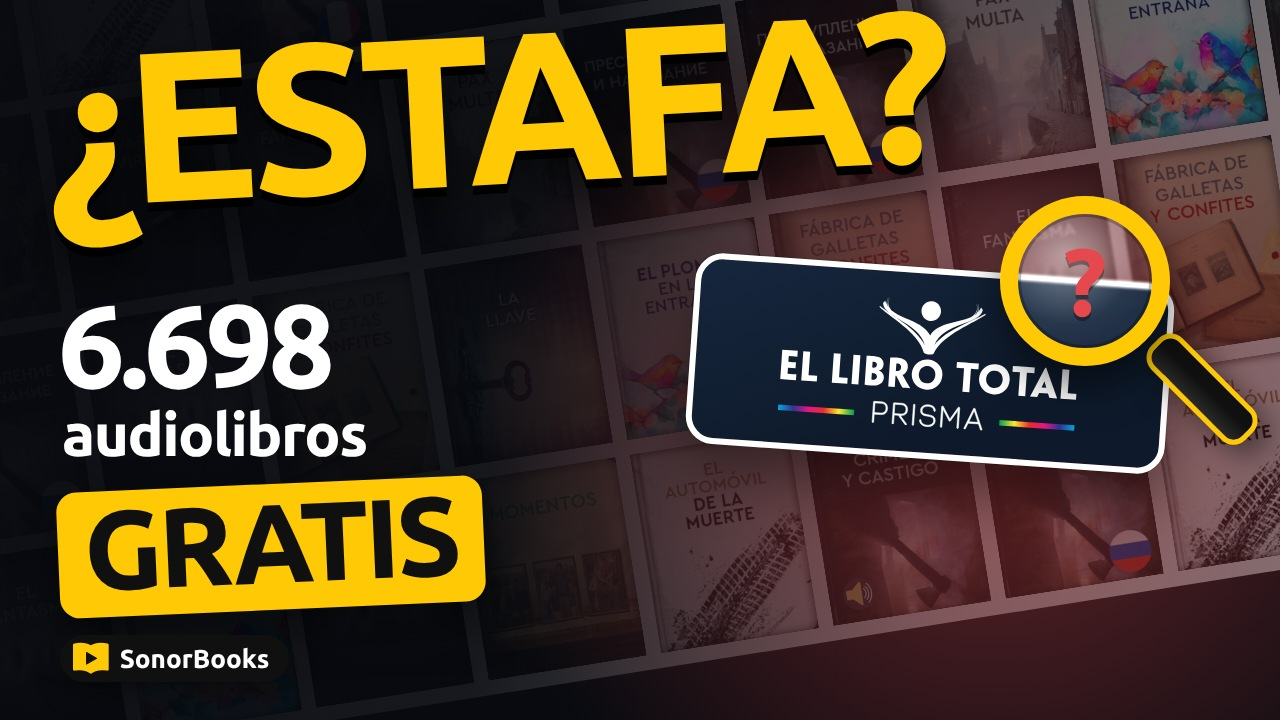
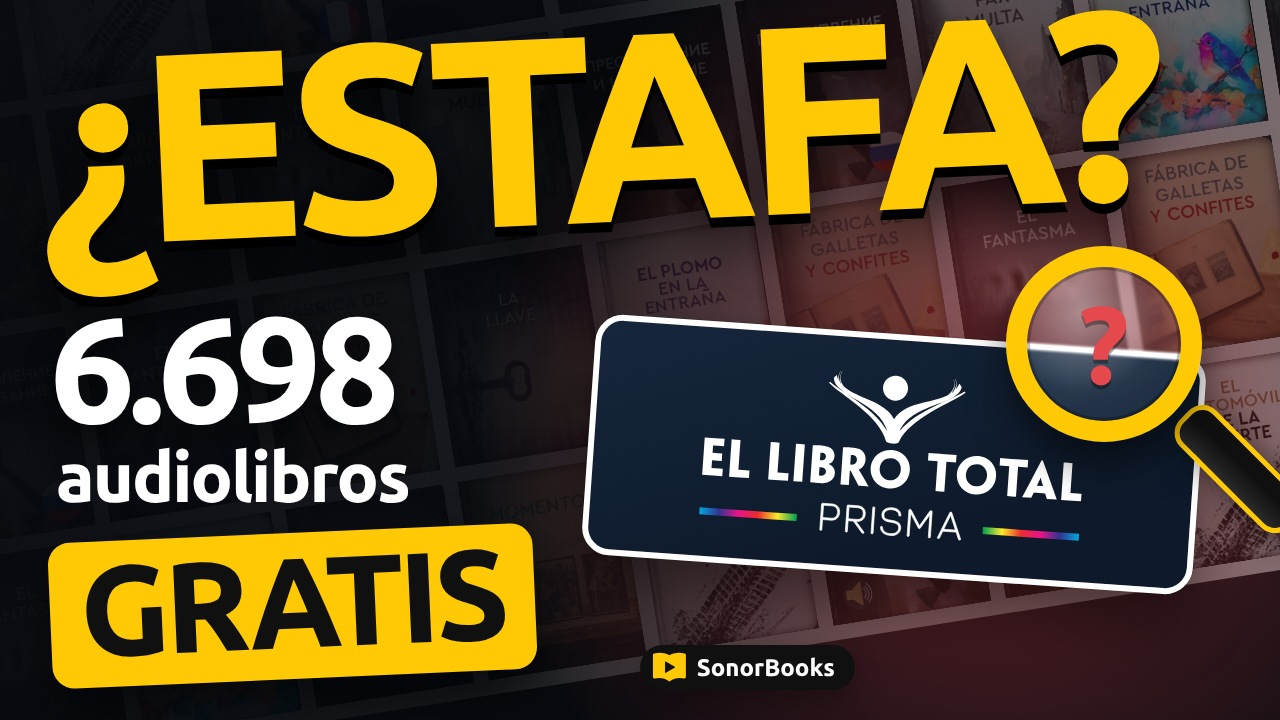
Miniaturas B y C: composición que ocupa todo el lienzo con menos piezas y más grandes
- B: «¿ESTAFA?» a todo el ancho, promesa más grande y logo de El Libro Total con lupa ocupando la mitad inferior.
- C: columna izquierda centrada (título, portada y precio tachado) y derecha con logo, portada y «0 €» más grandes.

Claude-Session: https://claude.ai/code/session_014SpXqk4RJtiCvMBPcT3Vps

diff --git a/video/src/scenes/elt2/CoverTest.tsx b/video/src/scenes/elt2/CoverTest.tsx
@@ -38,20 +38,20 @@ const Estafa: React.FC = () => (
     </div>
     <div style={{ position: 'absolute', inset: 0, background: 'linear-gradient(100deg, rgba(8,10,15,0.97) 0%, rgba(8,10,15,0.9) 42%, rgba(8,10,15,0.45) 75%, rgba(8,10,15,0.3) 100%)' }} />
     <div style={{ position: 'absolute', inset: 0, background: 'radial-gradient(circle at 78% 58%, rgba(229,72,77,0.42), rgba(229,72,77,0) 48%)' }} />
-    {/* Pregunta */}
-    <div style={{ position: 'absolute', left: 44, top: 22, transform: 'rotate(-3deg)', transformOrigin: 'left center' }}>
-      <div style={{ fontWeight: 700, fontSize: 214, letterSpacing: -8, lineHeight: 1, color: color.yellow, textShadow: '0 9px 0 #000, 0 22px 50px rgba(0,0,0,0.7)', whiteSpace: 'nowrap' }}>¿ESTAFA?</div>
+    {/* Pregunta: ocupa todo el ancho */}
+    <div style={{ position: 'absolute', left: 36, top: 14, transform: 'rotate(-2.5deg)', transformOrigin: 'left center' }}>
+      <div style={{ fontWeight: 700, fontSize: 268, letterSpacing: -11, lineHeight: 1, color: color.yellow, textShadow: '0 10px 0 #000, 0 24px 56px rgba(0,0,0,0.75)', whiteSpace: 'nowrap' }}>¿ESTAFA?</div>
     </div>
     {/* Promesa */}
-    <div style={{ position: 'absolute', left: 58, top: 288 }}>
-      <div style={{ fontWeight: 700, fontSize: 118, letterSpacing: -5, lineHeight: 0.95, color: '#fff' }}>6.698</div>
-      <div style={{ fontWeight: 700, fontSize: 60, letterSpacing: -1.5, lineHeight: 1, color: '#fff', marginTop: 4, marginLeft: 4 }}>audiolibros</div>
-      <div style={{ display: 'inline-block', marginTop: 20, background: color.yellow, color: color.ink, borderRadius: 20, padding: '2px 26px 12px', fontWeight: 700, fontSize: 112, letterSpacing: -4, lineHeight: 1, transform: 'rotate(-2.5deg)', boxShadow: '0 20px 44px rgba(0,0,0,0.5)' }}>GRATIS</div>
+    <div style={{ position: 'absolute', left: 50, top: 300 }}>
+      <div style={{ fontWeight: 700, fontSize: 150, letterSpacing: -7, lineHeight: 0.9, color: '#fff', textShadow: '0 12px 30px rgba(0,0,0,0.6)' }}>6.698</div>
+      <div style={{ fontWeight: 700, fontSize: 70, letterSpacing: -2, lineHeight: 1, color: '#fff', marginTop: 6, marginLeft: 6 }}>audiolibros</div>
+      <div style={{ display: 'inline-block', marginTop: 22, background: color.yellow, color: color.ink, borderRadius: 22, padding: '4px 30px 14px', fontWeight: 700, fontSize: 128, letterSpacing: -5, lineHeight: 1, transform: 'rotate(-2.5deg)', boxShadow: '0 22px 48px rgba(0,0,0,0.55)' }}>GRATIS</div>
     </div>
     {/* Logo de El Libro Total bajo la lupa */}
-    <div style={{ position: 'absolute', left: 690, top: 268 }}><EltPlate w={480} rotate={4} /></div>
-    <div style={{ position: 'absolute', left: 1000, top: 196 }}><Lens size={170} /></div>
-    <div style={{ position: 'absolute', left: 60, bottom: 38 }}><Brand /></div>
+    <div style={{ position: 'absolute', left: 588, top: 334 }}><EltPlate w={612} rotate={4} /></div>
+    <div style={{ position: 'absolute', left: 1006, top: 246 }}><Lens size={196} /></div>
+    <div style={{ position: 'absolute', left: 640, bottom: 30 }}><Brand size={24} /></div>
   </div>
 );
 
@@ -64,27 +64,27 @@ const Cyc: React.FC<{ w: number; rotate: number; dim?: boolean }> = ({ w, rotate
 const Precio: React.FC = () => (
   <div style={{ position: 'absolute', inset: 0, fontFamily: font.sans, overflow: 'hidden', background: `radial-gradient(ellipse at 72% 45%, #FFE066 0%, ${color.yellow} 50%, #F2B800 100%)` }}>
     <div style={{ position: 'absolute', inset: 0, backgroundImage: 'radial-gradient(rgba(16,16,16,0.10) 2px, transparent 2.4px)', backgroundSize: '28px 28px', opacity: 0.6 }} />
-    {/* Mitad izquierda: lo que cuesta en otra tienda */}
-    <div style={{ position: 'absolute', inset: 0, background: '#131313', clipPath: 'polygon(0 0, 600px 0, 520px 720px, 0 720px)' }} />
-    <div style={{ position: 'absolute', left: 52, top: 34, fontWeight: 700, fontSize: 66, letterSpacing: -2, color: '#fff', lineHeight: 1 }}>MISMO LIBRO</div>
-    <div style={{ position: 'absolute', left: 92, top: 150 }}><Cyc w={216} rotate={-5} dim /></div>
-    <div style={{ position: 'absolute', left: 50, top: 470 }}>
-      <div style={{ position: 'relative', display: 'inline-block', fontWeight: 700, fontSize: 118, letterSpacing: -5, lineHeight: 1, color: '#d9d9d9' }}>
-        18,99 €
-        <div style={{ position: 'absolute', left: -12, right: -14, top: '48%', height: 14, borderRadius: 7, background: color.red, transform: 'rotate(-9deg)', boxShadow: '0 4px 10px rgba(0,0,0,0.45)' }} />
+    {/* Mitad izquierda: lo que cuesta en otra tienda (columna centrada) */}
+    <div style={{ position: 'absolute', inset: 0, background: '#131313', clipPath: 'polygon(0 0, 610px 0, 540px 720px, 0 720px)' }} />
+    <div style={{ position: 'absolute', left: 0, top: 0, width: 560, height: 720, display: 'flex', flexDirection: 'column', alignItems: 'center' }}>
+      <div style={{ marginTop: 30, fontWeight: 700, fontSize: 70, letterSpacing: -2, color: '#fff', lineHeight: 1 }}>MISMO LIBRO</div>
+      <div style={{ marginTop: 34 }}><Cyc w={232} rotate={-5} dim /></div>
+      <div style={{ position: 'relative', marginTop: 26, fontWeight: 700, fontSize: 124, letterSpacing: -5, lineHeight: 1, color: '#d9d9d9', whiteSpace: 'nowrap' }}>
+        18,99{'\u202F'}€
+        <div style={{ position: 'absolute', left: -14, right: -14, top: '48%', height: 15, borderRadius: 8, background: color.red, transform: 'rotate(-8deg)', boxShadow: '0 4px 10px rgba(0,0,0,0.45)' }} />
       </div>
-      <div style={{ fontSize: 30, fontWeight: 500, color: 'rgba(255,255,255,0.6)', marginTop: 8, marginLeft: 6 }}>en Audible</div>
+      <div style={{ fontSize: 30, fontWeight: 500, color: 'rgba(255,255,255,0.62)', marginTop: 6 }}>en Audible</div>
     </div>
     {/* Flecha en la costura */}
-    <div style={{ position: 'absolute', left: 494, top: 300, width: 116, height: 116, borderRadius: '50%', background: '#fff', display: 'flex', alignItems: 'center', justifyContent: 'center', boxShadow: '0 18px 40px rgba(0,0,0,0.4)', border: `6px solid ${color.ink}` }}>
+    <div style={{ position: 'absolute', left: 512, top: 302, width: 116, height: 116, borderRadius: '50%', background: '#fff', display: 'flex', alignItems: 'center', justifyContent: 'center', boxShadow: '0 18px 40px rgba(0,0,0,0.4)', border: `6px solid ${color.ink}` }}>
       <svg width="60" height="60" viewBox="0 0 24 24"><path d="M4 12h14m-6-7 7 7-7 7" stroke={color.ink} strokeWidth="3.4" fill="none" strokeLinecap="round" strokeLinejoin="round" /></svg>
     </div>
     {/* Mitad derecha: El Libro Total */}
-    <div style={{ position: 'absolute', left: 676, top: 36 }}><EltPlate w={360} rotate={-3} /></div>
-    <div style={{ position: 'absolute', left: 664, top: 244 }}><Cyc w={214} rotate={5} /></div>
-    <div style={{ position: 'absolute', right: 36, top: 222, fontWeight: 700, fontSize: 246, letterSpacing: -10, lineHeight: 1, color: color.ink, textShadow: '0 10px 0 rgba(255,255,255,0.35)', whiteSpace: 'nowrap' }}>0{'\u202F'}€</div>
-    <div style={{ position: 'absolute', left: 960, top: 500, display: 'inline-block', background: color.ink, color: '#fff', borderRadius: 16, padding: '8px 20px 12px', fontWeight: 700, fontSize: 44, letterSpacing: -1, transform: 'rotate(-3deg)', boxShadow: '0 16px 30px rgba(0,0,0,0.3)', whiteSpace: 'nowrap' }}>y es legal</div>
-    <div style={{ position: 'absolute', left: 52, bottom: 30 }}><Brand size={22} /></div>
+    <div style={{ position: 'absolute', left: 730, top: 30 }}><EltPlate w={452} rotate={-3} /></div>
+    <div style={{ position: 'absolute', left: 650, top: 256 }}><Cyc w={238} rotate={5} /></div>
+    <div style={{ position: 'absolute', right: 26, top: 240, fontWeight: 700, fontSize: 276, letterSpacing: -12, lineHeight: 1, color: color.ink, textShadow: '0 10px 0 rgba(255,255,255,0.35)', whiteSpace: 'nowrap' }}>0{'\u202F'}€</div>
+    <div style={{ position: 'absolute', left: 952, top: 540, display: 'inline-block', background: color.ink, color: '#fff', borderRadius: 18, padding: '8px 24px 13px', fontWeight: 700, fontSize: 52, letterSpacing: -1, transform: 'rotate(-3deg)', boxShadow: '0 16px 30px rgba(0,0,0,0.3)', whiteSpace: 'nowrap' }}>y es legal</div>
+    <div style={{ position: 'absolute', left: 676, bottom: 26 }}><Brand size={22} /></div>
   </div>
 );
 
